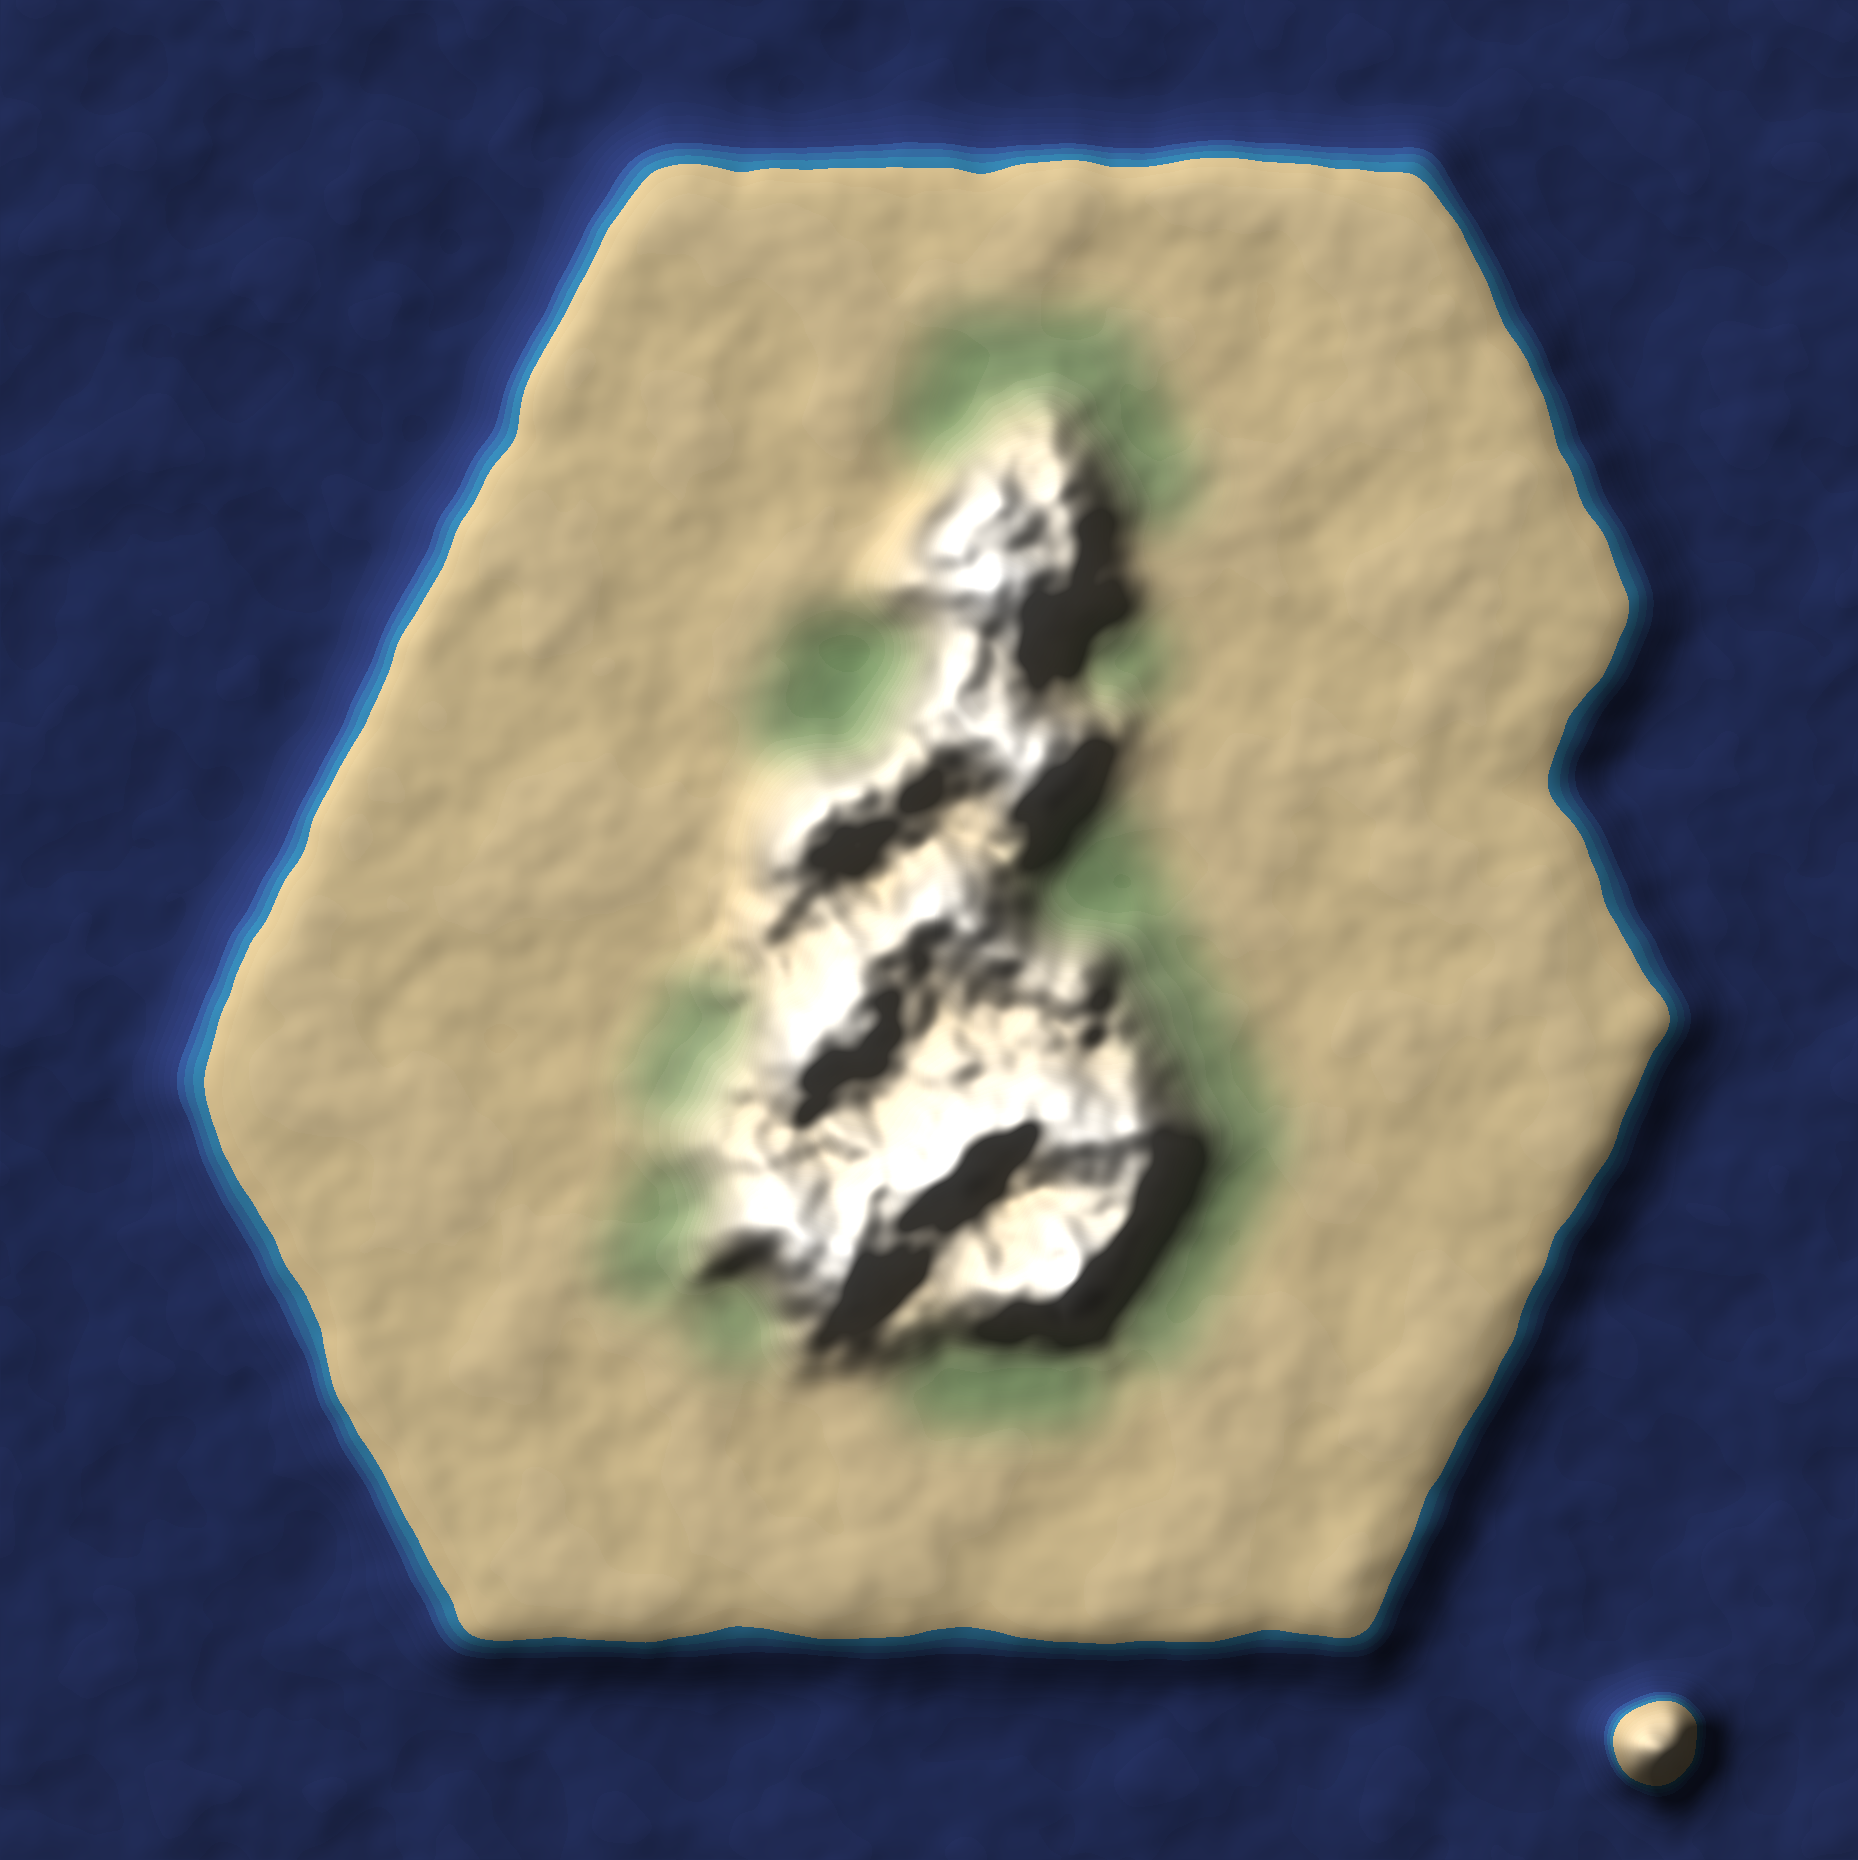
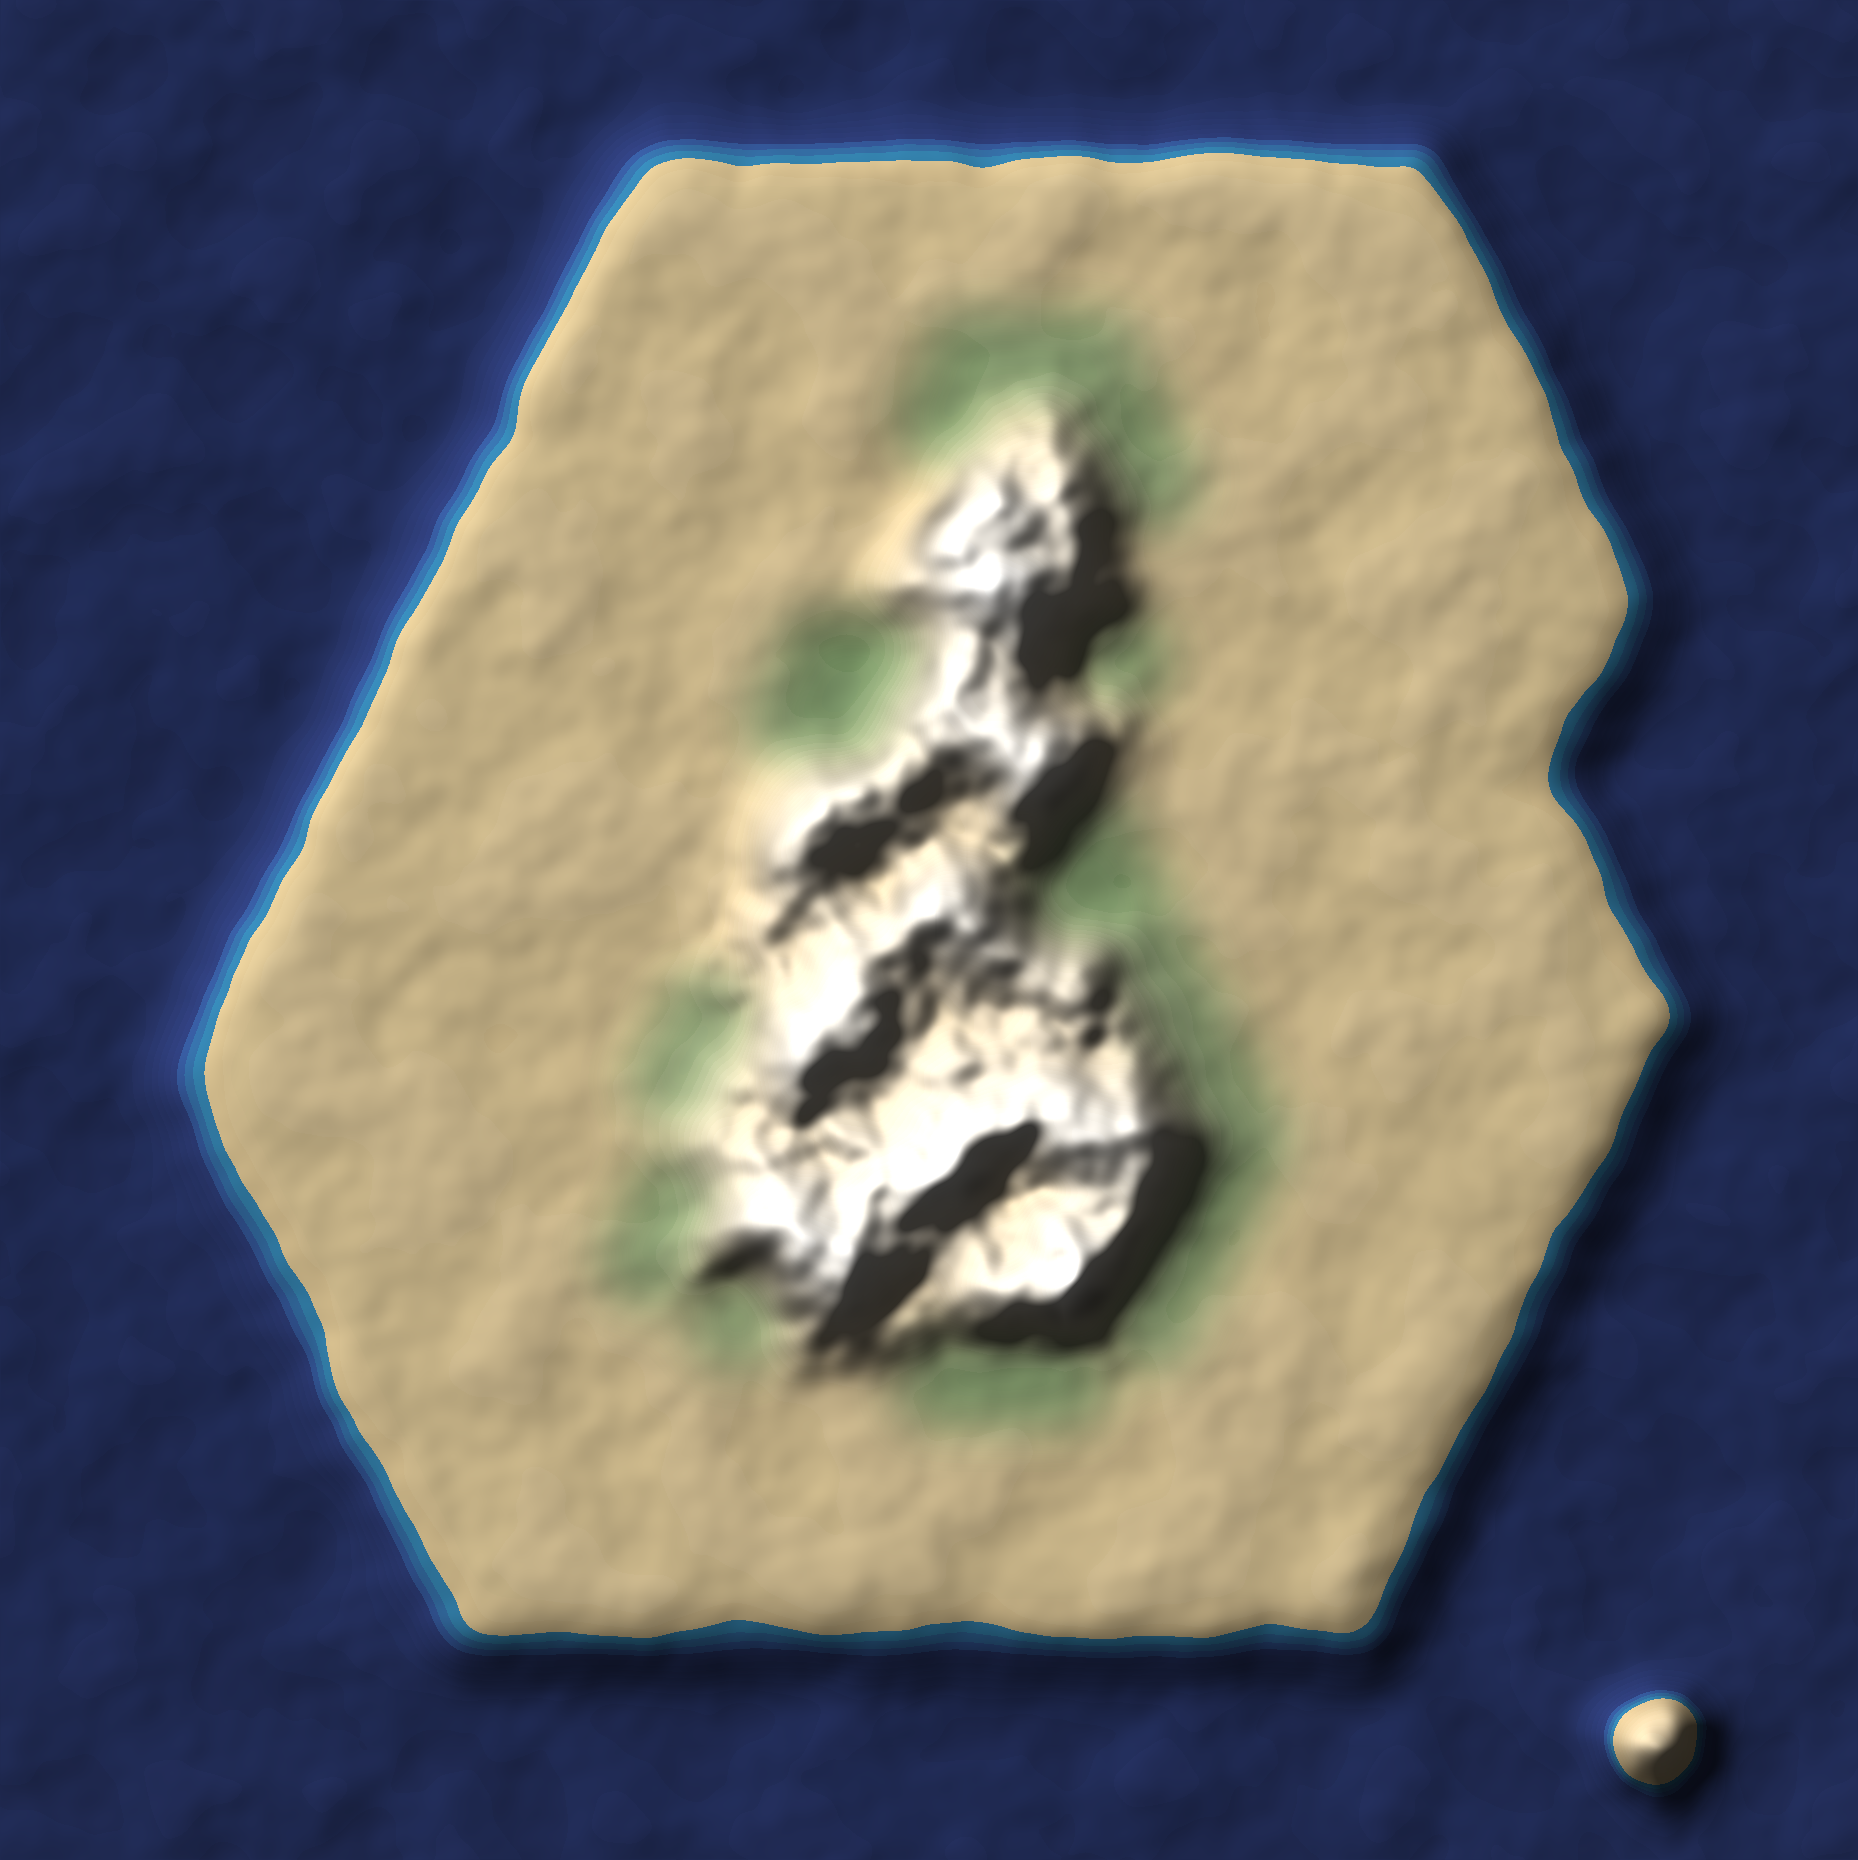
Bias river blend north to reduce water bleed

Changed region(s): [[0.3434, 0.0624, 0.7492, 0.0935], [0.5307, 0.8731, 0.5619, 0.9043], [0.4682, 0.8731, 0.4995, 0.9043]]

diff --git a/composeApp/src/commonMain/kotlin/de/egril/defender/mapgen/MapImageGenerator.kt b/composeApp/src/commonMain/kotlin/de/egril/defender/mapgen/MapImageGenerator.kt
@@ -30,6 +30,9 @@ object MapImageGenerator {
     private const val VERTICAL_SPACING = HEX_HEIGHT * 0.75   // 60 px
     private const val HORIZONTAL_SPACING = -10.0
     private const val ODD_ROW_OFFSET_RATIO = 0.42
+    // Nudge river tile centers slightly north when blending so water doesn't
+    // bleed as far into the southern neighbours.
+    private const val RIVER_Y_BIAS = -HEX_HEIGHT * 0.10      // -8 px
     private const val PADDING = 20.0
     // Slightly lower sigma to sharpen biome transitions while keeping soft edges
     private val BLEND_SIGMA = HEX_WIDTH * 0.45               // ~31.2 px
@@ -153,10 +156,10 @@ object MapImageGenerator {
         for (gx in 0 until map.width) {
             for (gy in 0 until map.height) {
                 val (cx, cy) = hexCenter(gx, gy)
-                cX[idx] = cx
-                cY[idx] = cy
                 val tileType = map.tiles["$gx,$gy"] ?: TileType.NO_PLAY
                 val biome = TILE_BIOME[tileType] ?: DEFAULT_BIOME
+                cX[idx] = cx
+                cY[idx] = if (tileType == TileType.RIVER) cy + RIVER_Y_BIAS else cy
                 elevBase[idx] = biome.elevation
                 moistBase[idx] = biome.moisture
                 noiseAmps[idx] = biome.noiseAmp
